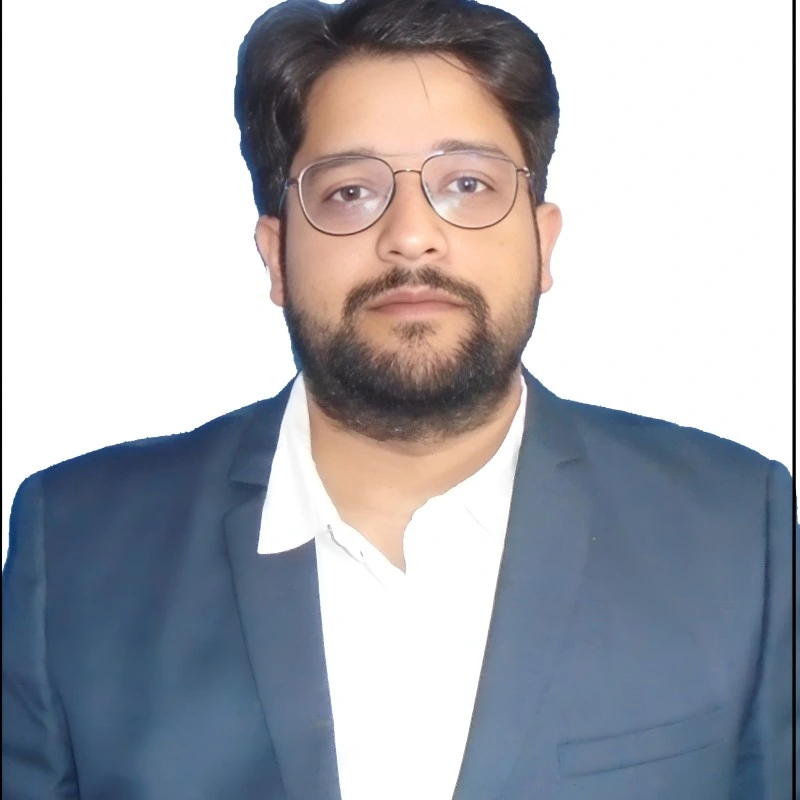
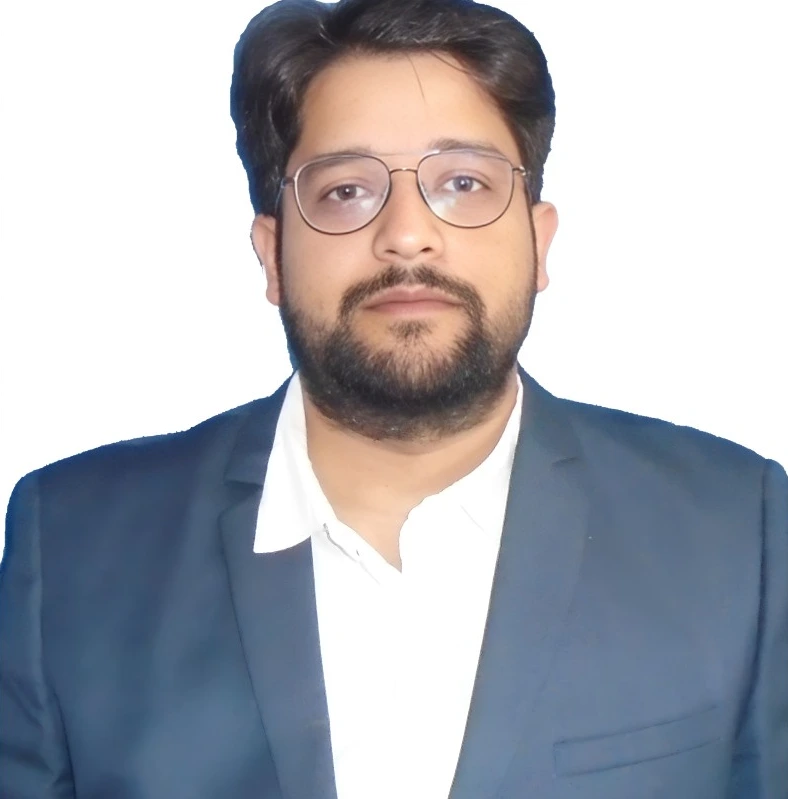
feat: Introduce a speaker information dialog, add a Gold sponsor tier with CognitivTrust, and update an agenda item.

diff --git a/app/components/shared/SpeakerInfo.vue b/app/components/shared/SpeakerInfo.vue
@@ -1,0 +1,126 @@
+<template>
+  <v-dialog
+    :model-value="modelValue"
+    @update:model-value="$emit('update:modelValue', $event)"
+    max-width="600px"
+    max-height="750px"
+  >
+    <v-card class="speaker-card " rounded="lg" >
+      
+      
+      <v-card-text class="pa-0">
+        <div class="d-flex flex-column">
+          <v-avatar size="120" class="mb-4">
+             <v-img
+              :src="speaker.image ? `/images/speakers/${speaker.image}` : '/images/defaultAvatar.png'"
+              :alt="speaker.name"
+              cover
+            ></v-img>
+          </v-avatar>
+          
+          <h2 class="text-h5 font-weight-bold mb-1">{{ speaker.name }}</h2>
+          <div class="text-subtitle-1 mb-1">{{ speaker.role }}</div>
+          <div class="text-subtitle-2 text-grey-lighten-1 mb-4">{{ speaker.company || '' }}</div>
+          
+      
+          <div class="text-body-2 text-left w-100 mb-6 speaker-bio">
+            <h3 class="text-h6 font-weight-bold mb-2">Bio</h3>
+            {{ speaker.bio }}
+          </div>
+          
+          <div v-if="speakerTalks.length > 0" class="text-body-2 text-left w-100 mb-6 speaker-bio">
+            <h3 class="text-h6 font-weight-bold mb-2">{{ speakerTalks.length > 1 ? 'Talks' : 'Talk' }}</h3>
+            <div v-for="(talk, index) in speakerTalks" :key="index" class="mb-3">
+              <div class="font-weight-bold text-subtitle-1">{{ talk.title }}</div>
+              <div class="text-caption  mb-1">
+                
+                <v-chip size="small" color="primary" variant="tonal"><v-icon size="small" class="mr-1">mdi-clock-outline</v-icon> {{ talk.time }}</v-chip> <v-chip v-if="talk.hall" size="small" color="primary" variant="tonal"> {{ talk.hall }}</v-chip>
+              </div>
+              <div v-if="talk.description" class="text-body-2 ">{{ talk.description }}</div>
+            </div>
+          </div>
+          
+          <div class="d-flex gap-4">
+            <a
+              v-for="social in speaker.socials"
+              :key="social.name"
+              :href="social.url"
+              target="_blank"
+              rel="noopener noreferrer"
+              class="social-link"
+            >
+              <v-icon color="grey-darken-2">{{ social.icon }}</v-icon>
+            </a>
+          </div>
+        </div>
+      </v-card-text>
+      
+       <v-card-actions style="min-height:auto !important" class="justify-end pa-0">
+        <v-btn variant="text"  @click="$emit('update:modelValue', false)">Close</v-btn>
+      </v-card-actions>
+    </v-card>
+  </v-dialog>
+</template>
+
+<script setup>
+const props = defineProps({
+  modelValue: {
+    type: Boolean,
+    required: true
+  },
+  speaker: {
+    type: Object,
+    required: true,
+    default: () => ({})
+  }
+});
+
+defineEmits(['update:modelValue']);
+
+import agendaData from "~/assets/data/agenda.json";
+
+const speakerTalks = computed(() => {
+  if (!props.speaker || !props.speaker.id) return [];
+  return agendaData.filter(item => 
+    item.speaker && Array.isArray(item.speaker) && item.speaker.includes(props.speaker.id)
+  );
+});
+</script>
+
+<style scoped>
+.speaker-card {
+  border-radius: 16px;
+  padding: 24px;
+  @media(max-width:500px){
+    padding:16px;
+  }
+}
+
+.speaker-bio {
+  line-height: 1.6;
+  opacity: 0.9;
+}
+
+.social-link {
+  text-decoration: none;
+  transition: opacity 0.5s;
+}
+
+.social-link:hover {
+  opacity: 0.7;
+}
+
+.gap-4 {
+  gap: 16px;
+}
+
+.close-btn {
+    cursor: pointer;
+    font-size: 14px;
+    font-weight: 500;
+    color: #fff;
+    padding: 8px 16px;
+    border-radius: 4px;
+    transition: background-color 0.2s;
+}
+</style>

diff --git a/app/components/home/featureSpeakers.vue b/app/components/home/featureSpeakers.vue
@@ -11,14 +11,14 @@
       </h1>
 
       <div class="event-agendas__marquee-wrapper">
-        <div class="event-agendas__marquee">
-          <div class="event-agendas__marquee-content">
+        <div class="event-agendas__marquee" >
+          <div class="event-agendas__marquee-content" :style="{animationPlayState: showSpeakerDialog ? 'paused !important' : 'running'}">
             <div
               v-for="speaker in featureSpeakers"
               :key="speaker.name"
               class="event-agendas__card"
             >
-              <div class="event-agendas__card-inner">
+              <div class="event-agendas__card-inner" @click="openSpeakerDialog(speaker)">
                 <div class="event-agendas__image-container">
                   <img
                     :src="speaker.image ? `/images/speakers/${speaker.image}` : '/images/defaultAvatar.png'"
@@ -46,13 +46,13 @@
               </div>
             </div>
           </div>
-          <div class="event-agendas__marquee-content" aria-hidden="true">
+          <div class="event-agendas__marquee-content" :style="{animationPlayState: showSpeakerDialog ? 'paused !important' : 'running'}" aria-hidden="true">
             <div
               v-for="speaker in featureSpeakers"
               :key="`duplicate-${speaker.name}`"
               class="event-agendas__card"
             >
-              <div class="event-agendas__card-inner">
+              <div class="event-agendas__card-inner" @click="openSpeakerDialog(speaker)">
                 <div class="event-agendas__image-container">
                   <img
                     :src="speaker.image ? `/images/speakers/${speaker.image}` : '/images/defaultAvatar.png'"
@@ -85,13 +85,23 @@
         <v-btn rounded="xl" variant="text" append-icon="mdi-arrow-right" color="primary" to="/speakers">View All Speakers</v-btn>
       </div>
     </div>
+    <SpeakerInfo v-model="showSpeakerDialog" :speaker="selectedSpeaker" />
   </section>
 </template>
 
 <script setup>
 import speakersData from '~/assets/data/speakers.json';
+import SpeakerInfo from '~/components/shared/SpeakerInfo.vue';
 // Only show feature speakers on home page
 const featureSpeakers = speakersData.filter(speaker => speaker.isFeatured);
+
+const showSpeakerDialog = ref(false);
+const selectedSpeaker = ref({});
+
+const openSpeakerDialog = (speaker) => {
+  selectedSpeaker.value = speaker;
+  showSpeakerDialog.value = true;
+};
 
 </script>
 
@@ -194,7 +204,7 @@ const featureSpeakers = speakersData.filter(speaker => speaker.isFeatured);
     width: 100%;
 
     &:hover .event-agendas__marquee-content {
-      animation-play-state: paused;
+      animation-play-state: paused !important;
     }
   }
 
@@ -257,6 +267,7 @@ const featureSpeakers = speakersData.filter(speaker => speaker.isFeatured);
     width: 100%;
     transition: all 0.4s ease;
     position: relative;
+    cursor: pointer;
 
     .event-agendas__card:hover & {
       transform: translateY(-8px);

diff --git a/app/pages/sponsors.vue b/app/pages/sponsors.vue
@@ -114,7 +114,7 @@
               
               <!-- Title Sponsor -->
               <div class="sponsor-tier-section">
-                <h3 class="tier-label title-tier">Diamond Sponsor</h3>
+                <h3 class="tier-label diamond-tier">Diamond Sponsor</h3>
                 <div class="sponsors-grid title-sponsor-grid">
                   <div class="sponsor-item title-sponsor">
                     <a href="https://cast.ai" target="_blank" style="display: flex !important;" class="sponsor-link">
@@ -126,10 +126,29 @@
 
               <!-- Diamond Sponsors -->
               <div class="sponsor-tier-section">
-                <h3 class="tier-label diamond-tier">Platinum Sponsors</h3>
+                <h3 class="tier-label platinum-tier">Platinum Sponsors</h3>
                 <div class="sponsors-grid diamond-sponsors-grid">
                   <div 
                     v-for="sponsor in diamondSponsors" 
+                    :key="sponsor.id" 
+                    class="sponsor-item diamond-sponsor"
+                  >
+                    <a :href="sponsor.link" target="_blank" style="display: flex !important;" class="sponsor-link">
+                      <img 
+                        :src="`/images/partners/${sponsor.image}`" 
+                        :alt="sponsor.name" 
+                        class="sponsor-logo" 
+                      />
+                    </a>
+                  </div>
+                </div>
+              </div>
+              <!-- Gold Sponsors -->
+              <div class="sponsor-tier-section">
+                <h3 class="tier-label gold-tier">Gold Sponsors</h3>
+                <div class="sponsors-grid diamond-sponsors-grid">
+                  <div 
+                    v-for="sponsor in goldSponsors" 
                     :key="sponsor.id" 
                     class="sponsor-item diamond-sponsor"
                   >
@@ -194,6 +213,14 @@ const diamondSponsors = [
     name: "AWS",
     image: "aws.png",
     link: "https://aws.amazon.com/",
+  }
+];
+const goldSponsors = [
+  {
+    id: 1,
+    name: "CognitivTrust",
+    image: "cognitivtrust.svg",
+    link: "https://app.cognitivtrust.com/",
   }
 ];
 
@@ -634,16 +661,22 @@ useHead({
     padding: 10px 20px;
   }
 
-  &.title-tier {
-    background: linear-gradient(135deg, #FFD700 0%, #FFA500 100%);
-    color: #1a1a1a;
-    box-shadow: 0 4px 15px rgba(255, 215, 0, 0.3);
-  }
-
   &.diamond-tier {
     background: linear-gradient(135deg, #B9F2FF 0%, #87CEEB 100%);
     color: #1a1a1a;
     box-shadow: 0 4px 15px rgba(185, 242, 255, 0.3);
+  }
+
+  &.platinum-tier {
+    background: linear-gradient(135deg, #E5E9F0 0%, #BCC6D9 100%);
+    color: #1a1a1a;
+    box-shadow: 0 4px 15px rgba(188, 198, 217, 0.3);
+  }
+
+  &.gold-tier {
+    background: linear-gradient(135deg, #FFD700 0%, #FFA500 100%);
+    color: #1a1a1a;
+    box-shadow: 0 4px 15px rgba(255, 215, 0, 0.3);
   }
 }
 

diff --git a/app/pages/speakers.vue b/app/pages/speakers.vue
@@ -10,7 +10,8 @@
             conference! More speakers to be added shortly.
           </p>
           <div class="event-agendas__grid pa-0">
-            <div v-for="speaker in speakers" :key="speaker.name" class="event-agendas__card">
+            <div v-for="speaker in speakers" :key="speaker.name" class="event-agendas__card"
+              @click="openSpeakerDialog(speaker)">
               <div class="event-agendas__card-inner">
                 <div class="event-agendas__image-container">
                   <img :src="speaker.image
@@ -34,6 +35,7 @@
           </div>
         </v-col>
       </v-row>
+      <SpeakerInfo v-model="showSpeakerDialog" :speaker="selectedSpeaker" />
       <HomeCountDown />
     </v-container>
   </v-main>
@@ -41,8 +43,16 @@
 
 <script setup>
 import speakersData from "~/assets/data/speakers.json";
+import SpeakerInfo from "~/components/shared/SpeakerInfo.vue";
 
 const speakers = ref(speakersData.filter(speaker => speaker.visible));
+const showSpeakerDialog = ref(false);
+const selectedSpeaker = ref({});
+
+const openSpeakerDialog = (speaker) => {
+  selectedSpeaker.value = speaker;
+  showSpeakerDialog.value = true;
+};
 
 definePageMeta({
   layout: "default",
@@ -264,6 +274,7 @@ useHead({
     @media (max-width: 768px) {
       padding: 15px 0 0 15px;
     }
+    cursor: pointer;
   }
 
   &__card-inner {

diff --git a/app/components/home/partners.vue b/app/components/home/partners.vue
@@ -25,7 +25,7 @@
           :key="tier"
           class="partner-category text-center"
         >
-          <h3 class="partner-category-title">{{ tier }} Sponsors</h3>
+          <h3 class="partner-category-title">{{ tier }} {{tier === "Diamond"?"Sponser":"Sponsors"}}</h3>
           <div class="partners-grid text-center">
             <div
               v-for="(partner, idx) in partnersInTier"
@@ -113,6 +113,13 @@ const partners = [
     link: "https://aws.amazon.com/",
     tier: "Platinum",
   },
+   {
+    id: 4,
+    name: "CognitivTrust",
+    image: "cognitivtrust.svg",
+    link: "https://app.cognitivtrust.com/",
+    tier: "Gold"
+  }
 ];
 
 const partnersByTier = computed(() => {
